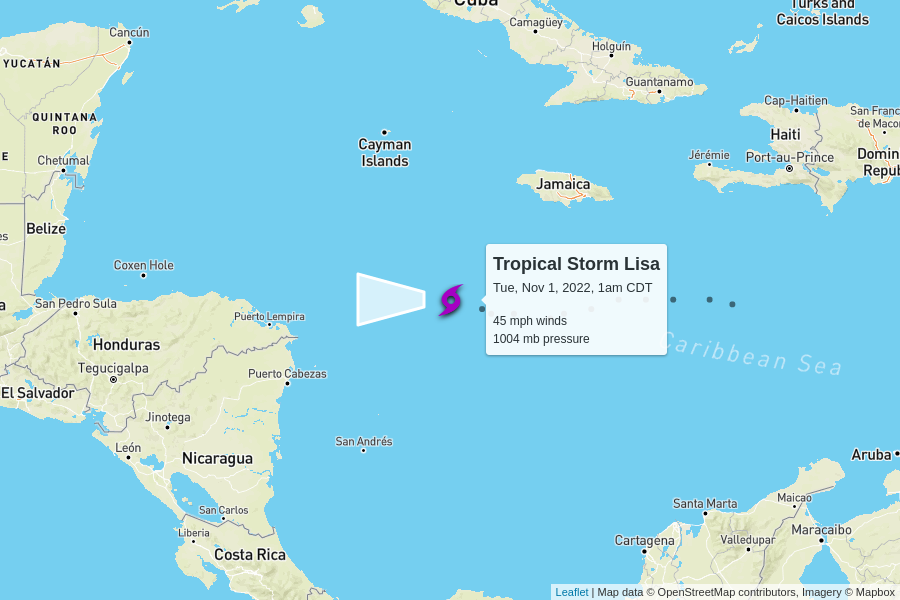
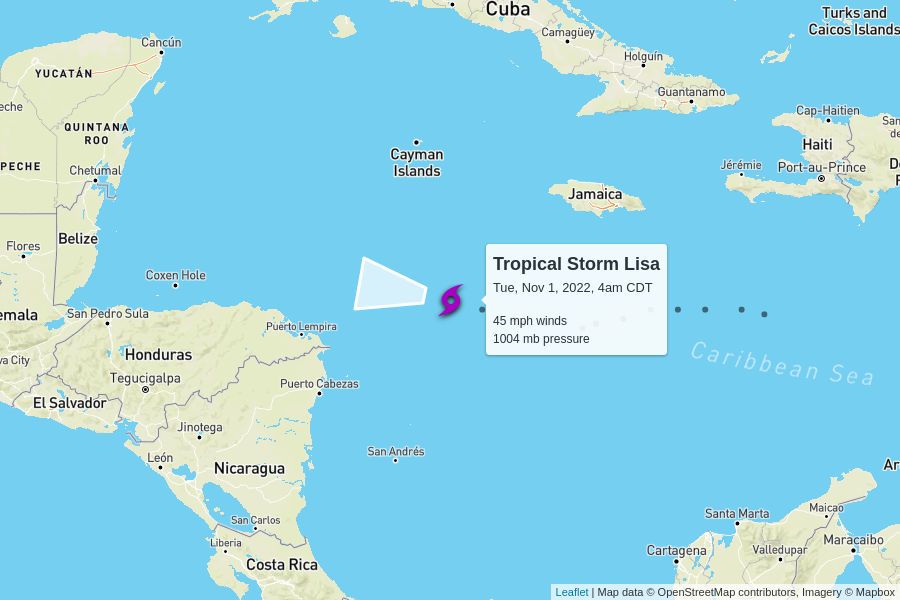
automatic update

diff --git a/docs/index.html b/docs/index.html
@@ -100,7 +100,7 @@
         <td colspan="6" class="storm category-0" >
           <h2>
             Tropical Storm Lisa
-            <p class="updated">last updated <span data-time>2022-11-01T06:00:00.000Z</span></p>
+            <p class="updated">last updated <span data-time>2022-11-01T09:00:00.000Z</span></p>
           </h2>
         </td>
       </tr>
@@ -118,9 +118,9 @@
         <td>45 mph</td>
         <td>1004 mb</td>
         <td>
-          12 mph to the west
+          14 mph to the west
           <br/>
-          <span style="display: inline-block; font-size: 1.5em; transform: rotate(270deg);">↑</span>
+          <span style="display: inline-block; font-size: 1.5em; transform: rotate(280deg);">↑</span>
         </td>
         <td><a href="https://raw.githubusercontent.com/mgwalker/atlantic-hurricanes/main/data/csv/AL152022.csv">AL152022.csv</a></td>
         <td><a href="https://www.nhc.noaa.gov/archive/2022/LISA.shtml?">NHC advisories</a></td>
